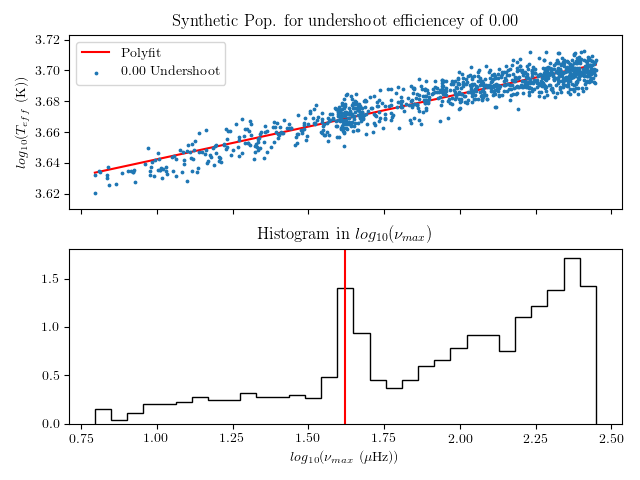
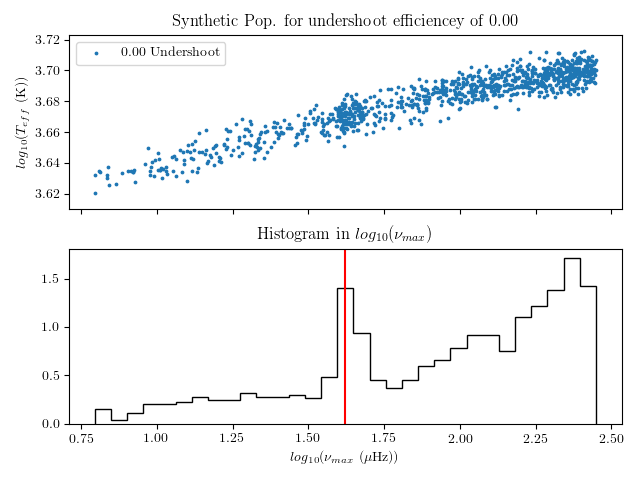
RGBB_mixmod.py now functionally fits to log10(numax) data, and is set up to accomodate for inclusion of other dimensions.

diff --git a/RGBB_mixmod.py b/RGBB_mixmod.py
@@ -38,13 +38,6 @@ class cModel:
         self.x = _x
         self.y = _y
 
-    # def prob_y(self, p):
-    #     _, _, m, c, sigm, _, _ = p
-    #     #Calculating the likelihood in the Y direction
-    #     model = m * self.x + c
-    #     lnLy = -0.5 * (((y - model) / sigm)**2 + 2*np.log(sigm) +np.log(2*np.pi))
-    #     return lnLy
-
     def fg_x(self, p):
         b, sigb, _, _ = p
 
@@ -76,15 +69,11 @@ if __name__ == '__main__':
     for US in ('0.00','0.025','0.02','0.04'):
         x, y, df = get_values(US)
 
-        #Estimate background parameters in log space
-        f = np.polyfit(x, y, 1)
-        fn = f[1] + x*f[0]
         bins = int(np.sqrt(len(x)))
 
         #Plotting the data to be fit to
         fig, ax = plt.subplots(2, sharex=True)
         ax[0].scatter(x, y, s=3, label=US+' Undershoot', zorder=1000)
-        ax[0].plot(x,f[1] + x*f[0],c='r', label='Polyfit', zorder=999)
         ax[0].set_title('Synthetic Pop. for undershoot efficiencey of '+US)
         ax[0].set_ylabel(r"$log_{10}$($T_{eff}$ (K))")
         ax[0].legend(loc='best',fancybox=True)
@@ -100,14 +89,8 @@ if __name__ == '__main__':
         fig.savefig('Output/Saniya_RGBB/investigate_US_'+US+'.png')
         plt.close('all')
 
-        #Getting distribution visualisation with KDE
-        fn = f[1] + x*f[0]
-        D = y - fn
-
-
 ####---SETTING UP MCMC
         labels_mc = ["$b$", r"$\sigma(b)$", r"$\lambda$","$Q$"]
-        std = np.std(D)
         start_params = np.array([lognuguess, 0.02, 1.8, 0.5])
         bounds = [(lognuguess-.05, lognuguess+.05,), (0.01,0.05),\
                     (1.4, 2.2), (0,1)]
@@ -117,55 +100,46 @@ if __name__ == '__main__':
 
 ####---CHECKING MODELS BEFORE RUN
         #Getting the KDE of the 2D distribution
-        Dxxyy = np.ones([len(x),2])
-        Dxxyy[:,0] = x
-        Dxxyy[:,1] = D
-        Dkde = stats.gaussian_kde(Dxxyy.T)
+        xxyy = np.ones([len(x),2])
+        xxyy[:,0] = x
+        xxyy[:,1] = y
+        kde = stats.gaussian_kde(xxyy.T)
 
         #Setting up a 2D meshgrid
         size = 200
-        Dxx = np.linspace(x.min(),x.max(),size)
-        Dyy = np.linspace(D.min(),D.max(),size)
-        DX, DY  = np.meshgrid(Dxx, Dyy)
-        Dd = np.ones([size, size])
+        xx = np.linspace(x.min(),x.max(),size)
+        yy = np.linspace(y.min(),y.max(),size)
+        X, Y  = np.meshgrid(xx, yy)
+        d = np.ones([size, size])
 
         #Calculating the KDE value for each point on the grid
-        for idx, i in tqdm(enumerate(Dxx)):
-            for jdx, j in enumerate(Dyy):
-                Dd[jdx, idx] = Dkde([i,j])
+        for idx, i in tqdm(enumerate(xx)):
+            for jdx, j in enumerate(yy):
+                d[jdx, idx] = kde([i,j])
 
         #Plotting residuals with histograms
-        left, bottom, width, height = 0.1, 0.35, 0.65, 0.60
-        fig = plt.figure(1, figsize=(10,10))
+        left, bottom, width, height = 0.1, 0.35, 0.8, 0.60
+        fig = plt.figure(1, figsize=(8,8))
         sax = fig.add_axes([left, bottom, width, height])
-        yax = fig.add_axes([left+width+0.02, bottom, 0.2, height])
         xax = fig.add_axes([left, 0.1, width, 0.22], sharex=sax)
         sax.xaxis.set_visible(False)
-        yax.set_yticklabels([])
         xax.grid()
         xax.set_axisbelow(True)
-        yax.grid()
-        yax.set_axisbelow(True)
 
         fig.suptitle('KDE of RGBB residuals to straight line polyfit, US '+US)
 
-        sax.hist2d(Dxxyy[:,0],Dxxyy[:,1],bins=np.sqrt(len(x)))
-        sax.contour(DX,DY,Dd)
-        sax.axhline(0.,c='r',label='Polyfit',zorder=1001)
+        sax.hist2d(xxyy[:,0],xxyy[:,1],bins=bins, cmap='Blues_r', zorder=1000)
+        sax.contour(X,Y,d, cmap='copper', zorder=1001, label='Kernel Density',)
         sax.legend(loc='best',fancybox=True)
 
-        yax.hist(D,bins=int(np.sqrt(len(D))),histtype='step',orientation='horizontal', normed=True)
-        # yax.scatter(np.exp(Model.prob_y(start_params)), D,c='orange')
-        yax.set_ylim(sax.get_ylim())
+        xax2 = xax.twinx()
+        xax2.scatter(x,np.exp(Model.fg_x(start_params)),c='cornflowerblue', label='RGBB Model')
+        xax.scatter(x,np.exp(Model.bg_x(start_params)),c='orange', label='RGB Model')
+        xax.hist(x,bins=bins,histtype='step',color='r',normed=True)
 
-        xax.hist(x,bins=int(np.sqrt(len(x))),histtype='step',normed=True)
-        xax.scatter(x,np.exp(Model.bg_x(start_params)),c='orange')
-        xax.scatter(x,np.exp(Model.fg_x(start_params)),c='cornflowerblue')
-
-        sax.set_ylabel(r"$log_{10}(T_{eff})$ - Straight Line Model")
+        sax.set_ylabel(r"$log_{10}(T_{eff})$")
         xax.set_xlabel(r"$log_{10}(\nu_{max})$")
         fig.savefig('Output/Saniya_RGBB/KDE_visual_'+US+'.png')
-        plt.show()
         plt.close('all')
 
 ####---RUNNING MCMC
@@ -193,36 +167,28 @@ if __name__ == '__main__':
             std[idx] = np.std(chain[:,idx])
 
         #Plotting residuals with histograms
-        left, bottom, width, height = 0.1, 0.35, 0.65, 0.60
-        fig = plt.figure(1, figsize=(10,10))
+        #Plotting residuals with histograms
+        left, bottom, width, height = 0.1, 0.35, 0.8, 0.60
+        fig = plt.figure(1, figsize=(8,8))
         sax = fig.add_axes([left, bottom, width, height])
-        yax = fig.add_axes([left+width+0.02, bottom, 0.2, height])
-        xax = fig.add_axes([left, 0.1, width, 0.22], sharex=sax)
+        xax = fig.add_axes([left, 0.1, width-0.15, 0.22], sharex=sax)
         sax.xaxis.set_visible(False)
-        yax.set_yticklabels([])
         xax.grid()
         xax.set_axisbelow(True)
-        yax.grid()
-        yax.set_axisbelow(True)
 
-        fig.suptitle('Resulting probability distributions, US '+US)
+        fig.suptitle('KDE of RGBB residuals to straight line polyfit, US '+US)
 
-        sax.scatter(x, y, c=fg_pp,cmap='Blues_r',label=US)
-        # sax.axhline(0.,c='r',label='Straight line fit',zorder=1001)
-        sax.legend(loc='best',fancybox=True)
+        col = sax.scatter(x, y, c=fg_pp, cmap='viridis')
+        fig.colorbar(col, ax=sax, label = 'RGBB membership posterior probability')
 
-        yax.hist(Dr,bins=int(np.sqrt(len(Dr))),histtype='step',orientation='horizontal', normed=True)
-        # yax.scatter(np.exp(Model.prob_y(res)), Dr,c='orange')
-        yax.set_ylim(sax.get_ylim())
-
-        xax.hist(x,bins=int(np.sqrt(len(x))),histtype='step',normed=True)
-        xax.scatter(x,np.exp(Model.bg_x(res)),c='orange')
-        xax.scatter(x,np.exp(Model.fg_x(res)),c='cornflowerblue')
+        xax2 = xax.twinx()
+        xax2.scatter(x,np.exp(Model.fg_x(res)),c='cornflowerblue', label='RGBB Model')
+        xax.scatter(x,np.exp(Model.bg_x(res)),c='orange', label='RGB Model')
+        xax.hist(x,bins=bins,histtype='step',color='r',normed=True)
 
         sax.set_ylabel(r"$log_{10}(T_{eff})$")
         xax.set_xlabel(r"$log_{10}(\nu_{max})$")
         fig.savefig('Output/Saniya_RGBB/result_'+US+'.png')
-        plt.show()
         plt.close('all')
 
 
@@ -248,7 +214,6 @@ if __name__ == '__main__':
         df.label[mask] = 'RGBB'
         df.label[~mask] = 'RGB'
 
-        sys.exit()
         out = glob.glob('../data/Saniya_RGBB/*'+US+'.*')[0]
 
         header = "#Generated synthetic population: 1000 stars\n\
